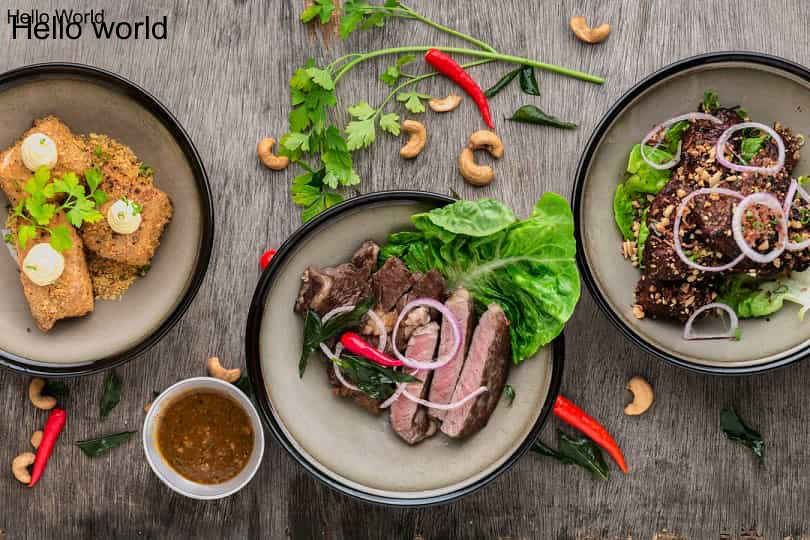
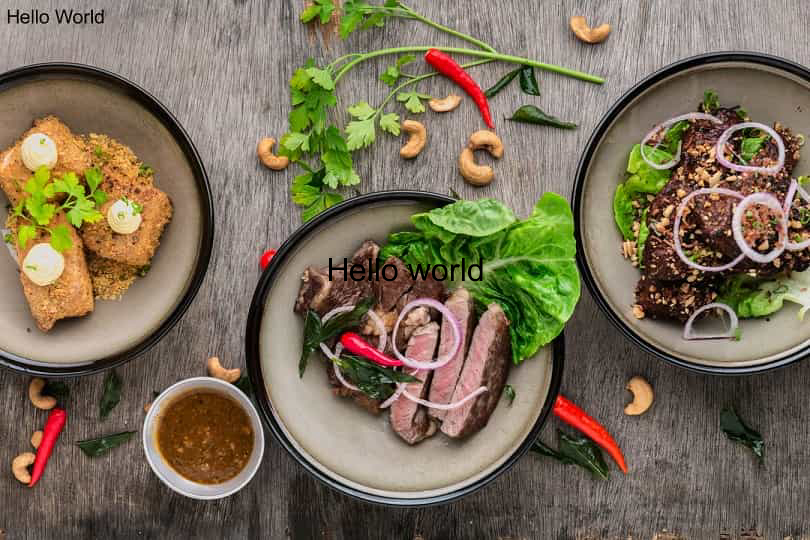
[task] Add text or image watermarks

Changed region(s): [[0.4012, 0.4741, 0.6173, 0.5333], [0.0, 0.0296, 0.216, 0.0889]]

diff --git a/app.js b/app.js
@@ -3,8 +3,28 @@ const Jimp = require('jimp');
 const addTextWatermarkToImage = async function(inputFile, outputFile, text) {
   const image = await Jimp.read(inputFile);
   const font = await Jimp.loadFont(Jimp.FONT_SANS_32_BLACK);
-  image.print(font, 10, 10, text);
+  const textData = {
+    text,
+    alignmentX: Jimp.HORIZONTAL_ALIGN_CENTER,
+    alignmentY: Jimp.VERTICAL_ALIGN_MIDDLE,
+  };
+  image.print(font, 0, 0, textData, image.getWidth(), image.getHeight());
   await image.quality(100).writeAsync(outputFile);
 };
 
 addTextWatermarkToImage('./test.jpg', './test-with-watermark.jpg', 'Hello world');
+
+const addImageWatermarkToImage = async function(inputFile, outputFile, watermarkFile) {
+    const image = await Jimp.read(inputFile);
+    const watermark = await Jimp.read(watermarkFile);
+    const x = image.getWidth() / 2 - watermark.getWidth() / 2;
+    const y = image.getHeight() / 2 - watermark.getHeight() / 2;
+  
+    image.composite(watermark, x, y, {
+      mode: Jimp.BLEND_SOURCE_OVER,
+      opacitySource: 0.5,
+    });
+    await image.quality(100).writeAsync(outputFile);
+  };
+  
+addImageWatermarkToImage('./test.jpg', './test-with-watermark2.jpg', './logo.jpg');
